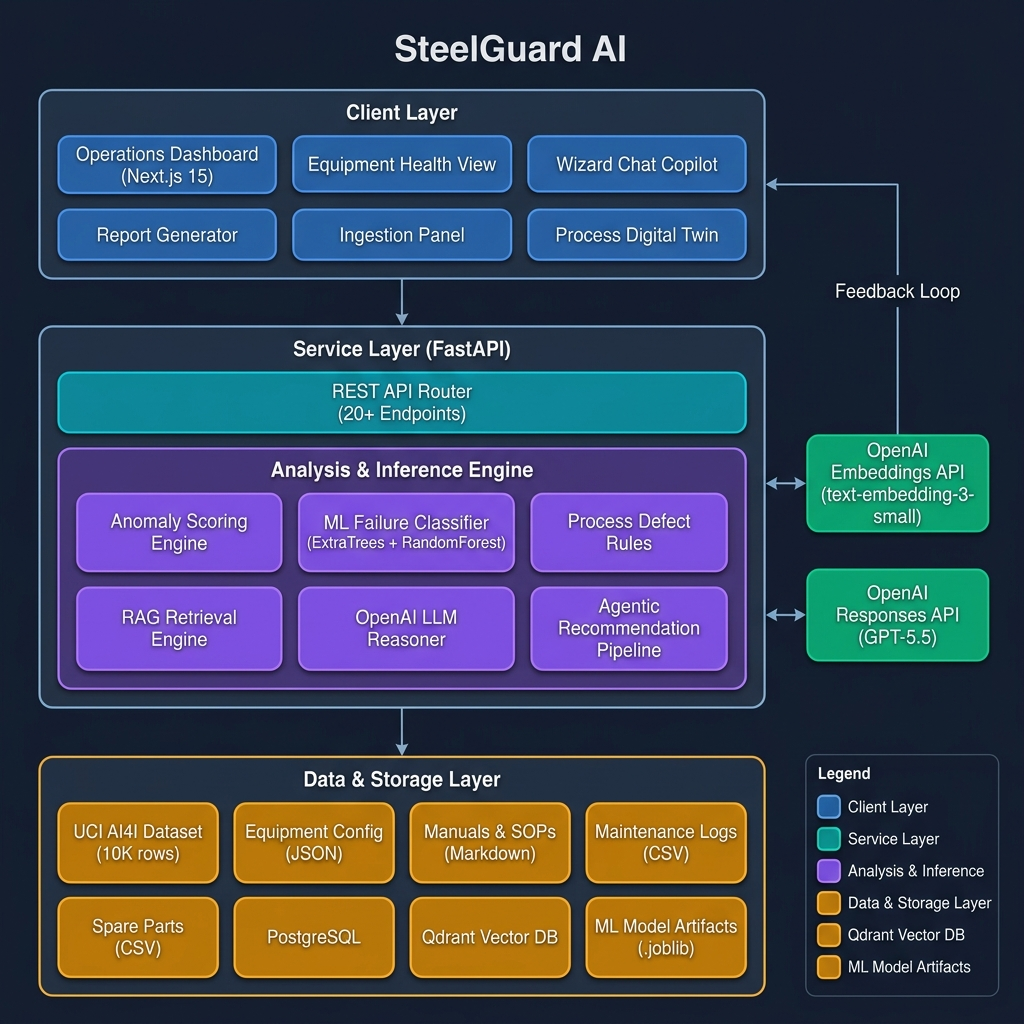
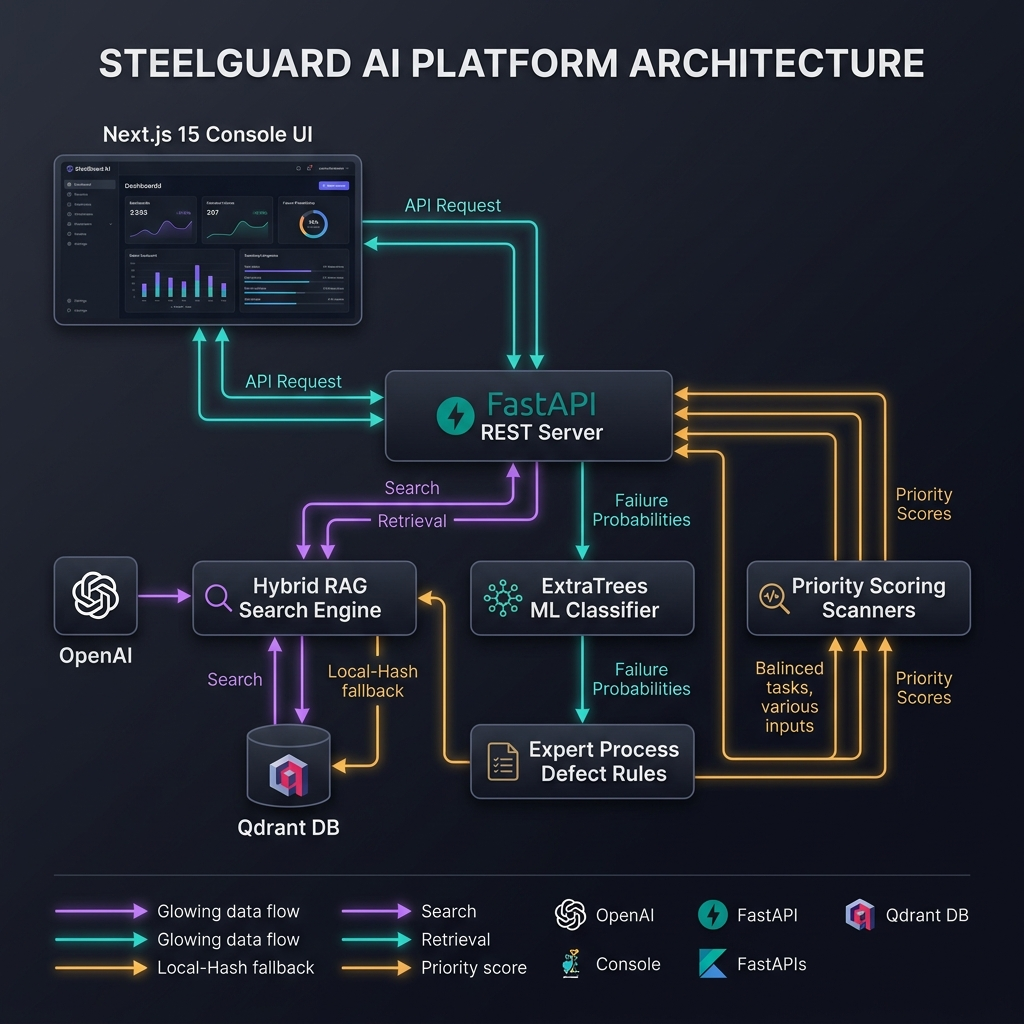
feat: integrate premium system architecture infographic to landing page and documentation

diff --git a/frontend/app/page.tsx b/frontend/app/page.tsx
@@ -39,12 +39,12 @@ const formatNumber = (num: number): string => {
 };
 
 type FeatureTab = "diagnostics" | "copilot" | "recommendations" | "twin";
-type ArchTab = "system-flow" | "research-blueprint";
+type ArchTab = "system-architecture" | "system-flow" | "research-blueprint";
 
 export default function LandingPage() {
   const router = useRouter();
   const [activeFeature, setActiveFeature] = useState<FeatureTab>("diagnostics");
-  const [activeArch, setActiveArch] = useState<ArchTab>("system-flow");
+  const [activeArch, setActiveArch] = useState<ArchTab>("system-architecture");
   const [scrolled, setScrolled] = useState(false);
   const [isLaunching, setIsLaunching] = useState(false);
   const [launchProgress, setLaunchProgress] = useState(0);
@@ -987,6 +987,16 @@ export default function LandingPage() {
           {/* Toggle Switches */}
           <div className="inline-flex p-1 bg-slate-950 rounded-xl border border-slate-900 mt-6">
             <button
+              onClick={() => setActiveArch("system-architecture")}
+              className={`px-5 py-2 rounded-lg text-xs font-semibold tracking-wide transition-all duration-200 ${
+                activeArch === "system-architecture"
+                  ? "bg-slate-900 text-white border border-white/5 shadow-subtle"
+                  : "text-slate-400 hover:text-slate-200"
+              }`}
+            >
+              System Architecture
+            </button>
+            <button
               onClick={() => setActiveArch("system-flow")}
               className={`px-5 py-2 rounded-lg text-xs font-semibold tracking-wide transition-all duration-200 ${
                 activeArch === "system-flow"
@@ -1013,7 +1023,28 @@ export default function LandingPage() {
         <div className="grid grid-cols-1 lg:grid-cols-12 gap-8 items-center max-w-5xl mx-auto">
           {/* Blueprint Description */}
           <div className="lg:col-span-4 space-y-5">
-            {activeArch === "system-flow" ? (
+            {activeArch === "system-architecture" ? (
+              <>
+                <h3 className="text-lg font-bold text-white">System Architecture</h3>
+                <p className="text-xs text-slate-400 leading-relaxed">
+                  Infographic outlining the platform's multi-layered tech stack, demonstrating decoupling and component integrations.
+                </p>
+                <ul className="space-y-3 text-xs text-slate-300">
+                  <li className="flex items-start gap-2">
+                    <CheckCircle2 className="w-4 h-4 text-coolant-400 shrink-0 mt-0.5" />
+                    <span><b>Frontend Interface:</b> Next.js 15 app with real-time HUD and chat.</span>
+                  </li>
+                  <li className="flex items-start gap-2">
+                    <CheckCircle2 className="w-4 h-4 text-coolant-400 shrink-0 mt-0.5" />
+                    <span><b>Backend Core:</b> FastAPI orchestration for RAG and scoring.</span>
+                  </li>
+                  <li className="flex items-start gap-2">
+                    <CheckCircle2 className="w-4 h-4 text-coolant-400 shrink-0 mt-0.5" />
+                    <span><b>Decoupled ML:</b> Model predicting failure mode and RUL.</span>
+                  </li>
+                </ul>
+              </>
+            ) : activeArch === "system-flow" ? (
               <>
                 <h3 className="text-lg font-bold text-white">System Data Flow</h3>
                 <p className="text-xs text-slate-400 leading-relaxed">
@@ -1072,7 +1103,13 @@ export default function LandingPage() {
             <div className="bg-[hsl(228,22%,5%)] rounded-[10px] overflow-hidden">
               <div className="relative w-full flex justify-center bg-slate-950/90 rounded-lg p-4">
                 <img
-                  src={activeArch === "system-flow" ? "/data_flow_diagram.png" : "/research_architecture.png"}
+                  src={
+                    activeArch === "system-architecture"
+                      ? "/architecture_diagram.png"
+                      : activeArch === "system-flow"
+                      ? "/data_flow_diagram.png"
+                      : "/research_architecture.png"
+                  }
                   alt="Architecture Diagram"
                   className="max-h-[420px] w-auto max-w-full object-contain rounded"
                 />